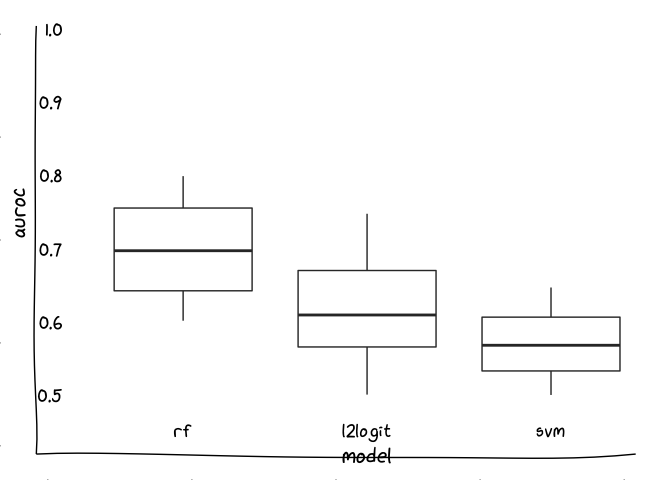
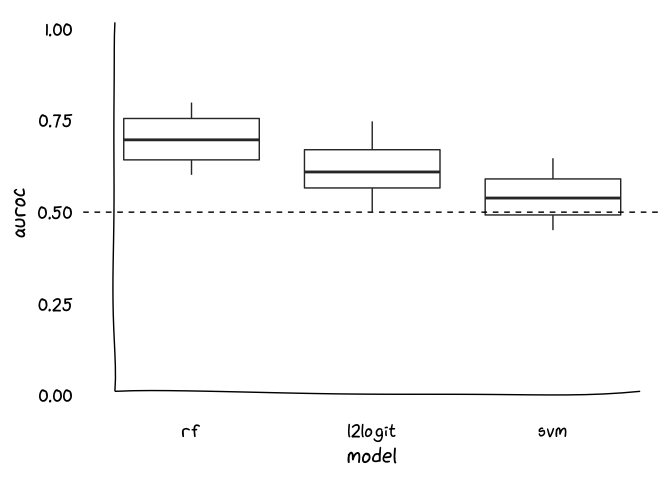
Tweak alignment. Better but not great

diff --git a/README.md b/README.md
@@ -9,24 +9,8 @@
 
 ``` r
 library(extrafont)
-#> Registering fonts with R
 library(cowplot)
-#> 
-#> ********************************************************
-#> Note: As of version 1.0.0, cowplot does not change the
-#>   default ggplot2 theme anymore. To recover the previous
-#>   behavior, execute:
-#>   theme_set(theme_cowplot())
-#> ********************************************************
 library(tidyverse)
-#> ── Attaching packages ─────────────────────────── tidyverse 1.3.0 ──
-#> ✓ ggplot2 3.3.2     ✓ purrr   0.3.4
-#> ✓ tibble  3.0.3     ✓ dplyr   1.0.0
-#> ✓ tidyr   1.1.0     ✓ stringr 1.4.0
-#> ✓ readr   1.3.1     ✓ forcats 0.5.0
-#> ── Conflicts ────────────────────────────── tidyverse_conflicts() ──
-#> x dplyr::filter() masks stats::filter()
-#> x dplyr::lag()    masks stats::lag()
 library(xkcd)
 ```
 
@@ -37,12 +21,8 @@ axes <- data.frame(y = c(0, 1),
   ggplot(aes(x, y)) +
   geom_point(color = 'white') +
   theme_void() +
-  xkcdaxis(range(0, 1), range(0, 1))
-#> Warning in seq.default(0, 1, length = evaluation): partial argument match of
-#> 'length' to 'length.out'
-
-#> Warning in seq.default(0, 1, length = evaluation): partial argument match of
-#> 'length' to 'length.out'
+  xkcdaxis(range(0, 1), range(0.5, 1)) +
+  theme(axis.ticks = element_blank())
 
 plot <- data.frame(
   rf = runif(100, 0.6, 0.8),
@@ -53,12 +33,13 @@ plot <- data.frame(
   mutate(model = as_factor(model)) %>%
   ggplot(aes(model, auroc)) +
   geom_boxplot() +
-  ylim(0.5, 1) +
+  geom_hline(yintercept = 0.5, linetype = 'dashed') +
+  ylim(0, 1) +
   theme_cowplot(font_family = 'xkcd Script', font_size = 16) +
-  theme(line = element_blank())
+  theme(axis.line = element_blank(),
+        axis.ticks = element_blank())
 
-aligned <- align_plots(axes, plot, axis = 'tr')
-#> Warning: Removed 29 rows containing non-finite values (stat_boxplot).
+aligned <- align_plots(axes, plot, align = 'hv', axis = 'lb')
 ggdraw(aligned[[1]]) + draw_plot(aligned[[2]])
 ```
 
